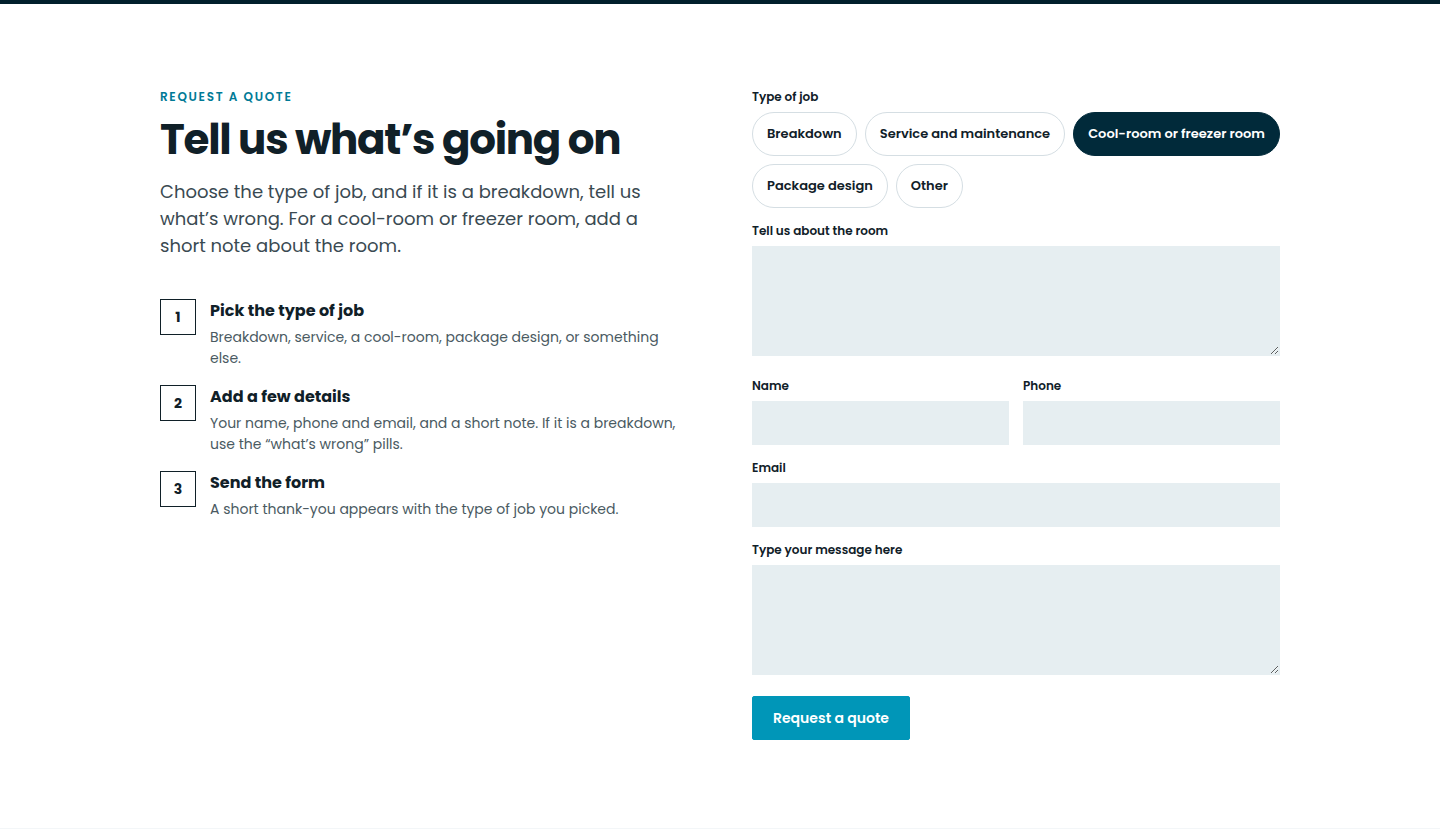
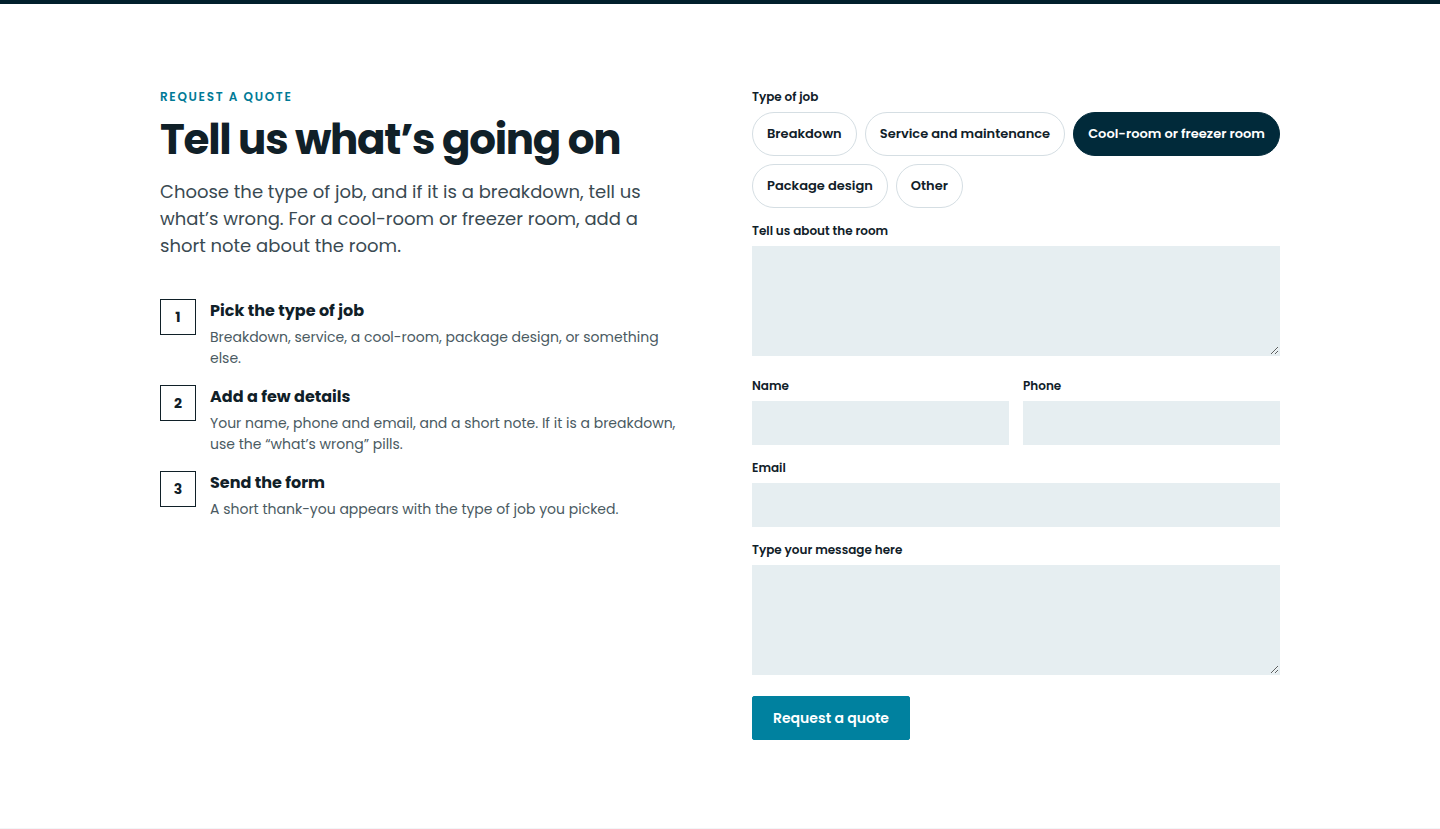
Raise CTA contrast and set preview title copy
Darken primary and Call button cyan so white text meets 4.5:1,
and set the title, descriptions, and README to the preview wording.

Changed region(s): [[0.5, 0.8142, 0.6562, 0.9047]]

diff --git a/wix-embed.html b/wix-embed.html
@@ -3,8 +3,10 @@
 <head>
 <meta charset="utf-8">
 <meta name="viewport" content="width=device-width, initial-scale=1">
-<title>Commercial refrigeration in Melbourne | Subzero Refrigeration</title>
-<meta name="description" content="Subzero Refrigeration is an established refrigeration company in the South-Eastern suburbs of Melbourne. Commercial and industrial refrigeration and air-conditioning, cool-rooms, service and maintenance, and breakdown.">
+<title>Subzero Refrigeration — Home</title>
+<meta name="description" content="Website preview.">
+<meta property="og:description" content="Website preview.">
+<meta name="twitter:description" content="Website preview.">
 <meta name="robots" content="noindex,nofollow">
 <link rel="preload" href="https://cromservices.github.io/subzero-refrigeration-preview/assets/fonts/poppins-400.woff2" as="font" type="font/woff2" crossorigin>
 <link rel="preload" href="https://cromservices.github.io/subzero-refrigeration-preview/assets/fonts/poppins-600.woff2" as="font" type="font/woff2" crossorigin>
@@ -73,8 +75,8 @@ nav.main a:hover{color:var(--ice)}
   font-weight:600;font-size:14px;text-decoration:none;
   border:1px solid transparent;cursor:pointer;font-family:inherit;
 }
-.btn-cyan{background:var(--cyan);color:#fff;border-color:var(--cyan)}
-.btn-cyan:hover{background:var(--cyan-deep)}
+.btn-cyan{background:#00819F;color:#fff;border-color:#00819F}
+.btn-cyan:hover{background:#007A96;border-color:#007A96}
 nav.main a.btn-cyan{color:#fff;padding:10px 20px}
 .btn-ghost{background:transparent;color:#fff;border-color:rgba(255,255,255,.55)}
 .theme-toggle{
@@ -282,7 +284,8 @@ footer.site img{height:36px;width:auto}
     text-decoration:none;font-weight:700;font-size:13px;letter-spacing:.08em;text-transform:uppercase;
     white-space:nowrap;overflow:hidden;border-radius:2px;border:1px solid transparent;
   }
-  .sticky-call a.call{background:var(--cyan);color:#fff;border-color:var(--cyan)}
+  .sticky-call a.call{background:#00819F;color:#fff;border-color:#00819F}
+  .sticky-call a.call:hover{background:#007A96;border-color:#007A96}
   .sticky-call a.quote{background:#fff;color:var(--deep);border-color:var(--deep)}
   body{padding-bottom:60px}
 }

diff --git a/css/site.css b/css/site.css
@@ -61,8 +61,8 @@ nav.main a:hover{color:var(--ice)}
   font-weight:600;font-size:14px;text-decoration:none;
   border:1px solid transparent;cursor:pointer;font-family:inherit;
 }
-.btn-cyan{background:var(--cyan);color:#fff;border-color:var(--cyan)}
-.btn-cyan:hover{background:var(--cyan-deep)}
+.btn-cyan{background:#00819F;color:#fff;border-color:#00819F}
+.btn-cyan:hover{background:#007A96;border-color:#007A96}
 nav.main a.btn-cyan{color:#fff;padding:10px 20px}
 .btn-ghost{background:transparent;color:#fff;border-color:rgba(255,255,255,.55)}
 .theme-toggle{
@@ -270,7 +270,8 @@ footer.site img{height:36px;width:auto}
     text-decoration:none;font-weight:700;font-size:13px;letter-spacing:.08em;text-transform:uppercase;
     white-space:nowrap;overflow:hidden;border-radius:2px;border:1px solid transparent;
   }
-  .sticky-call a.call{background:var(--cyan);color:#fff;border-color:var(--cyan)}
+  .sticky-call a.call{background:#00819F;color:#fff;border-color:#00819F}
+  .sticky-call a.call:hover{background:#007A96;border-color:#007A96}
   .sticky-call a.quote{background:#fff;color:var(--deep);border-color:var(--deep)}
   body{padding-bottom:60px}
 }

diff --git a/index.html b/index.html
@@ -3,8 +3,10 @@
 <head>
 <meta charset="utf-8">
 <meta name="viewport" content="width=device-width, initial-scale=1">
-<title>Commercial refrigeration in Melbourne | Subzero Refrigeration</title>
-<meta name="description" content="Subzero Refrigeration is an established refrigeration company in the South-Eastern suburbs of Melbourne. Commercial and industrial refrigeration and air-conditioning, cool-rooms, service and maintenance, and breakdown.">
+<title>Subzero Refrigeration — Home</title>
+<meta name="description" content="Website preview.">
+<meta property="og:description" content="Website preview.">
+<meta name="twitter:description" content="Website preview.">
 <meta name="robots" content="noindex,nofollow">
 <link rel="preload" href="assets/fonts/poppins-400.woff2" as="font" type="font/woff2" crossorigin>
 <link rel="preload" href="assets/fonts/poppins-600.woff2" as="font" type="font/woff2" crossorigin>

diff --git a/README.md b/README.md
@@ -1,3 +1,1 @@
-# subzero-refrigeration preview
-
-Spec preview by Crom Services. Not the live site. Not indexed.
+Website preview.
